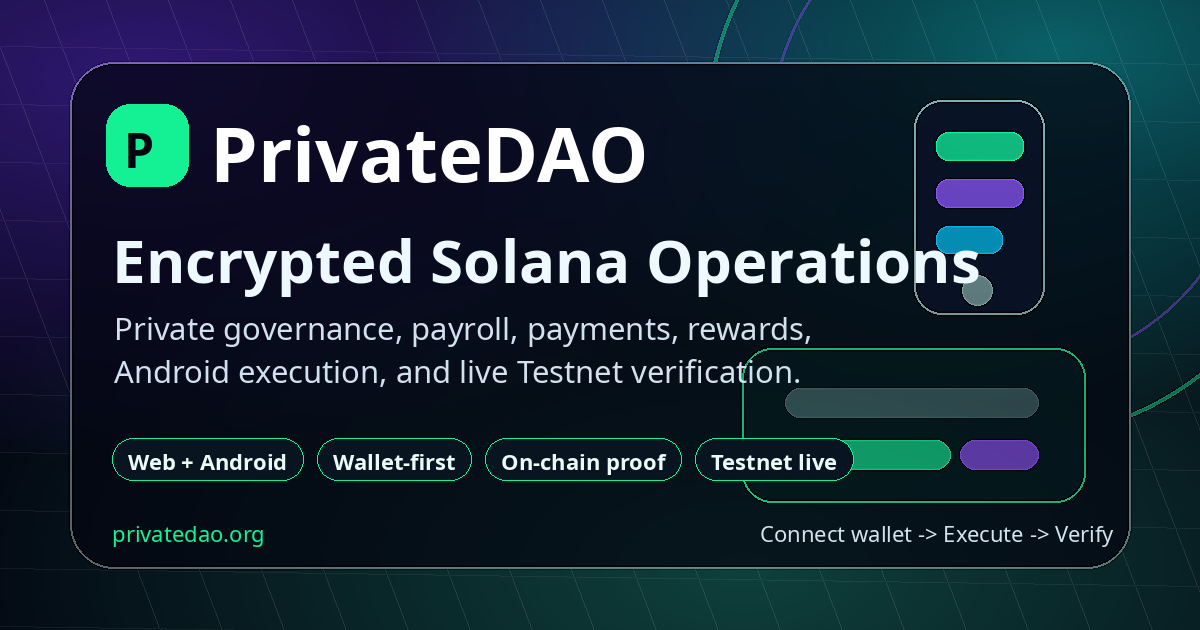
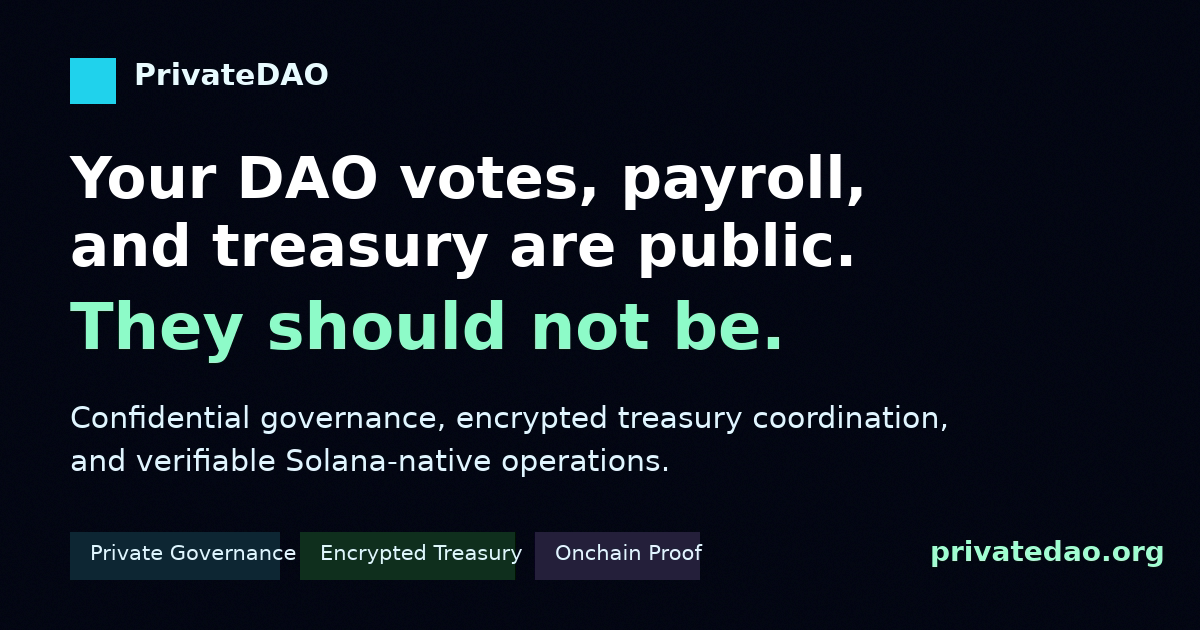
feat(web): refresh public link preview narrative

diff --git a/apps/web/src/lib/site-brand.ts b/apps/web/src/lib/site-brand.ts
@@ -3,16 +3,16 @@ import { supportedLocales } from "@/lib/i18n";
 export const siteName = "PrivateDAO";
 export const siteTitle = "PrivateDAO | Private Governance, Payroll, and Treasury on Solana";
 export const siteDescription =
-  "Your DAO votes, payroll, and treasury are public. They shouldn't be. PrivateDAO enables private governance, payroll, and treasury operations while outcomes remain cryptographically verifiable on Solana.";
+  "Your DAO votes, payroll, and treasury are public. They shouldn't be. PrivateDAO bridges organizational privacy and onchain verifiability with confidential governance, encrypted treasury coordination, and Solana-native operational infrastructure.";
 export const siteUrl = process.env.NEXT_PUBLIC_LIVE_SITE_URL?.replace(/\/+$/, "") ?? "https://privatedao.org";
 export const defaultOgImage = `${siteUrl}/opengraph-image.png`;
 
 export const siteKeywords = [
   "PrivateDAO",
   "Private DAO",
-  "confidential coordination",
-  "agent governance infrastructure",
-  "encrypted operational layer",
+  "confidential governance",
+  "encrypted treasury coordination",
+  "organizational infrastructure",
   "private governance",
   "confidential treasury",
   "treasury policy",